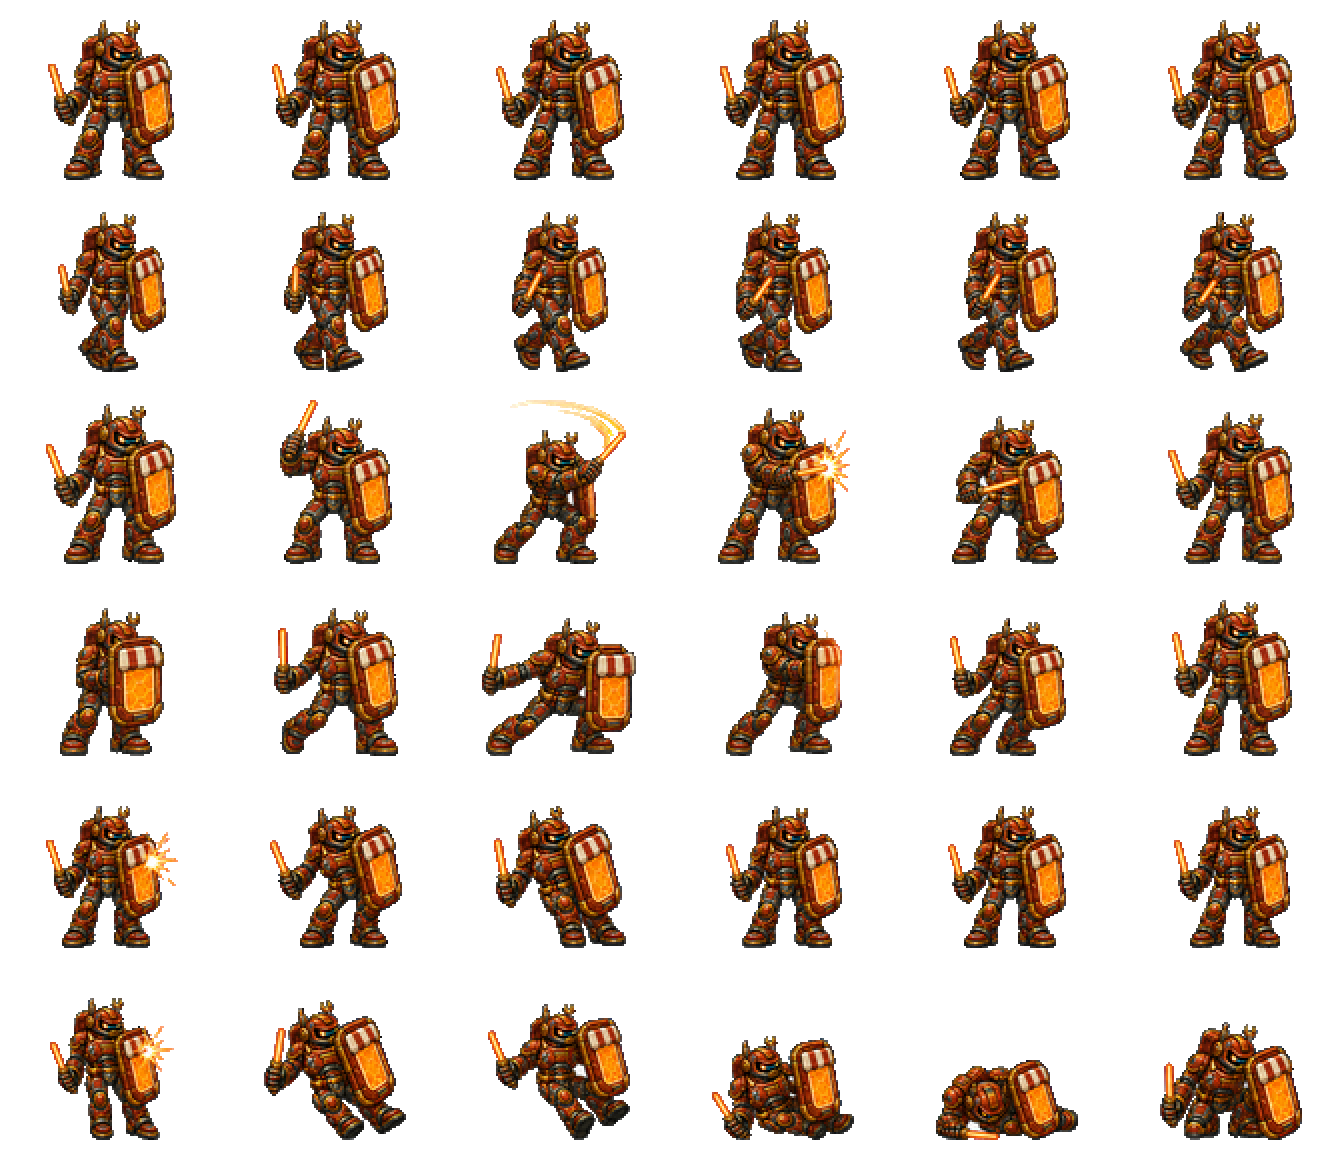
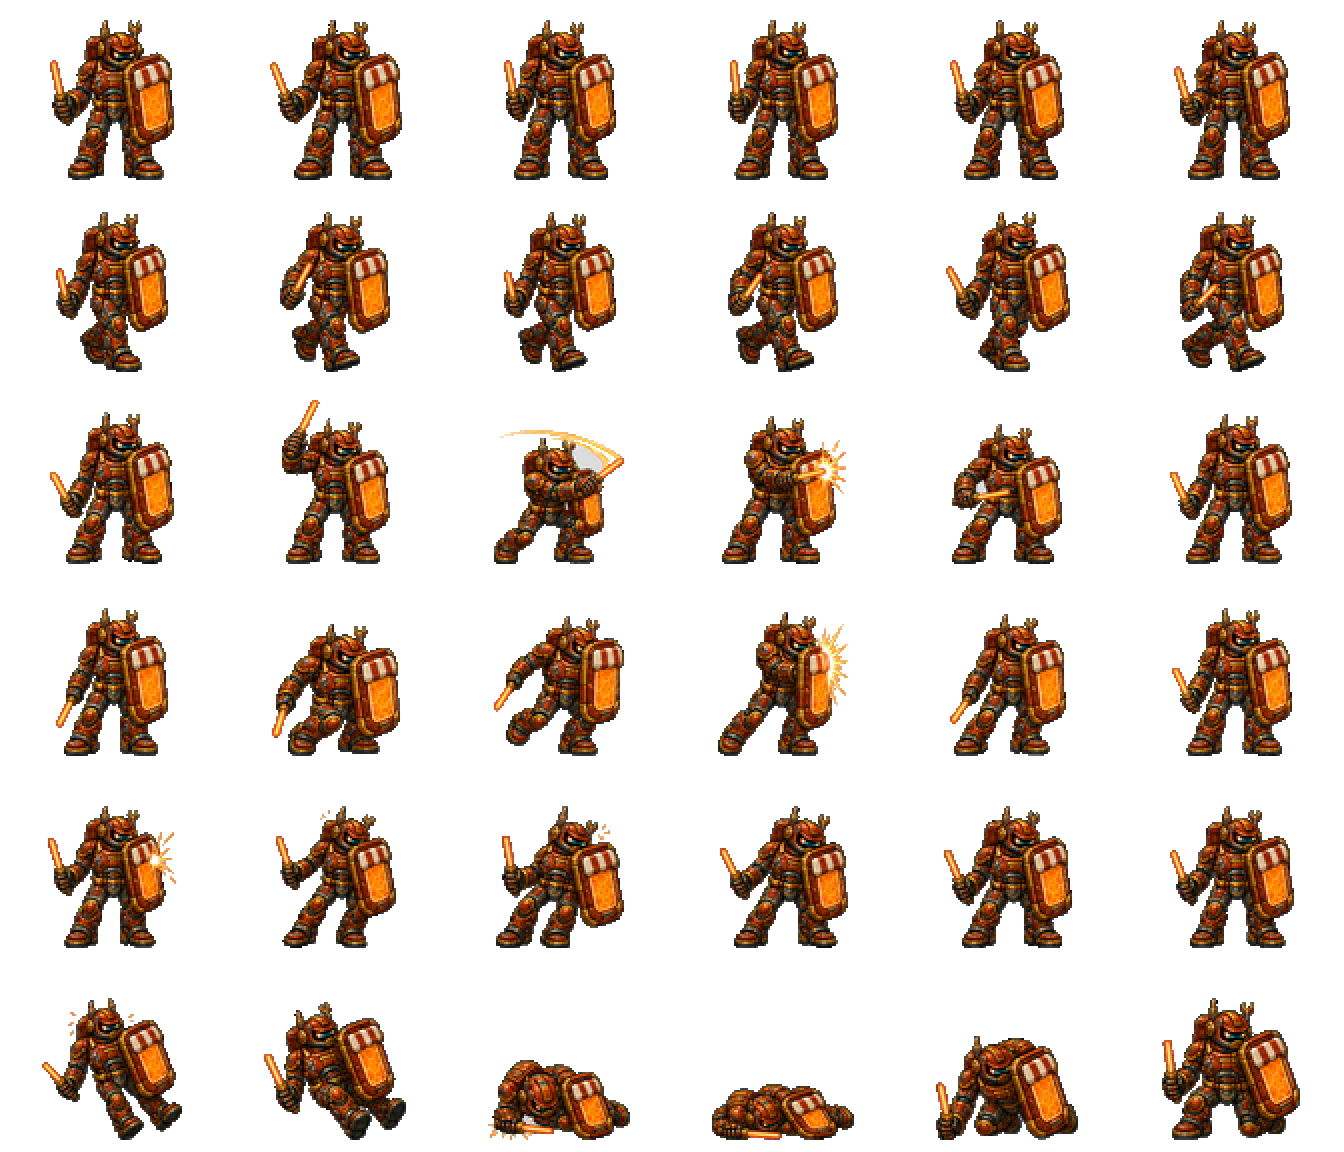
feat: redraw stage one enforcer and keeper

diff --git a/android/tools/test_enemy_visual_quality_contract.py b/android/tools/test_enemy_visual_quality_contract.py
@@ -11,7 +11,7 @@ ROOT = Path(__file__).resolve().parents[1]
 ASSETS = ROOT / "app/src/main/assets"
 JAVA = (ROOT / "app/src/main/java/com/familyforce/neonstreets/EnemyArchetype.java").read_text()
 GAME = (ROOT / "app/src/main/java/com/familyforce/neonstreets/GameView.java").read_text()
-SOURCE = ROOT.parent / "assets/imagegen/android/enemies/quality-v2"
+SOURCE_ROOT = ROOT.parent / "assets/imagegen/android/enemies"
 STRICT = (
     "grunt", "skater", "lantern_courier", "market_enforcer", "keeper_7",
 )
@@ -33,14 +33,20 @@ def cells(image: Image.Image):
 
 for enemy in STRICT:
     assert f'type("{enemy}"' in JAVA, enemy
-    model_sheet = SOURCE / enemy / "model_sheet.png"
+    # Individually approved redraws may advance without forcing untouched
+    # enemies onto the same source generation. Prefer the newest available
+    # source pack while retaining the accepted v2 pack for the other actors.
+    source = SOURCE_ROOT / "quality-v3" / enemy
+    if not source.is_dir():
+        source = SOURCE_ROOT / "quality-v2" / enemy
+    model_sheet = source / "model_sheet.png"
     assert model_sheet.is_file(), f"missing identity model sheet: {model_sheet}"
     with Image.open(model_sheet) as model:
         assert model.width >= 1536 and model.height >= 900, (
             model_sheet, model.size, "model sheet below 1536x900"
         )
     for sheet in ("idle_walk.png", "attacks.png", "hurt_knockdown.png"):
-        path = SOURCE / enemy / sheet
+        path = source / sheet
         assert path.is_file(), f"missing high-resolution source: {path}"
         with Image.open(path) as image:
             assert image.width >= 1536 and image.height >= 900, (

diff --git a/android/docs/ENEMY_VISUAL_QUALITY_STANDARD_AR.md b/android/docs/ENEMY_VISUAL_QUALITY_STANDARD_AR.md
@@ -7,6 +7,11 @@
 والوضوح هو المستوى المعتمد داخل اللعبة لشخصيتي `Striker` و`Shield Guard`.
 لا تُعمّم إعادة الرسم على المراحل التالية قبل اعتماد المرحلة الأولى داخل اللعبة.
 
+اعتمدت حزمة `quality-v3` لشخصيتي `Market Enforcer` و`Keeper-7` بعد رفض
+المستخدم لجودتهما البصرية رغم نجاح الفحص الآلي. تبقى بقية شخصيات المرحلة الأولى
+على `quality-v2` حتى يعاد رسم كل شخصية منفردة وتنجح داخل اللعبة. يجب على اختبار
+الإصدار اختيار أحدث حزمة معتمدة لكل عدو، لا افتراض جيل مصدر واحد للجميع.
+
 ## المصدر الإلزامي
 
 - لكل عدو `model_sheet.png` إلزامي لتثبيت الهوية، وثلاث أوراق صور ثابتة:
